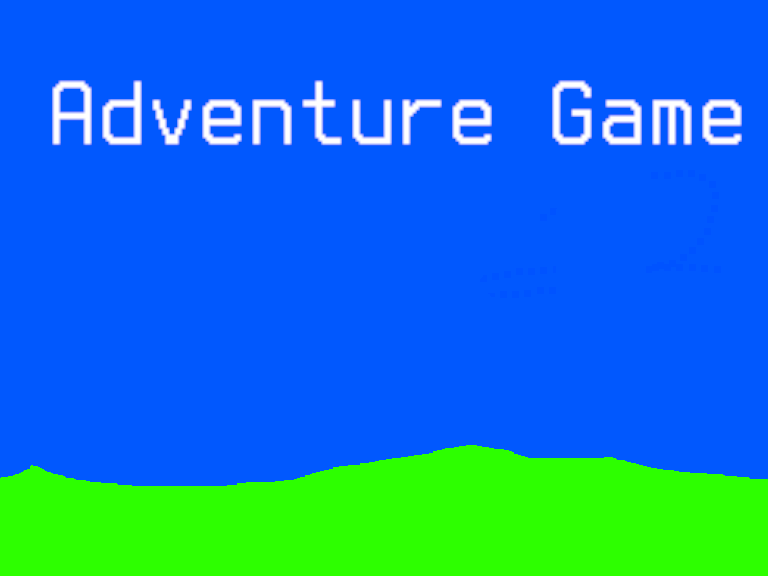
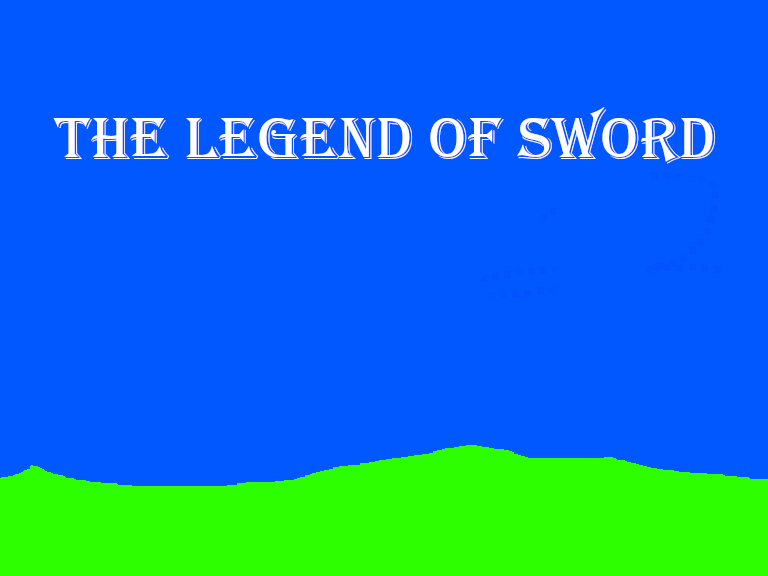
Codice aggiornato

Changed region(s): [[0.0625, 0.125, 0.9688, 0.2812]]

diff --git a/src/main/java/com/labollo/entity/Player.java b/src/main/java/com/labollo/entity/Player.java
@@ -2,20 +2,21 @@ package com.labollo.entity;
 
 import com.labollo.main.GamePanel;
 import com.labollo.main.KeyHandler;
-import com.labollo.object.OBJ_potion00;
-import com.labollo.object.OBJ_potion01;
-
 import javax.imageio.ImageIO;
-import java.awt.*;
+import java.awt.Rectangle;
+import java.awt.Graphics;
+import java.awt.Image;
 import java.awt.image.BufferedImage;
 import java.io.IOException;
 import java.util.Objects;
 import java.util.Random;
 
 public class Player extends Entity {
+    // Properties of com.labollo package
     GamePanel gp;
     KeyHandler keyH;
 
+    // Properties of this class
     public final int screenX;
     public final int screenY;
     public int hasKey = 0;
@@ -195,63 +196,22 @@ public class Player extends Entity {
                             this.gp.obj[5].worldY = closedChestY;
 
                             if (num == 0) {
-                                    this.gp.obj[6] = new OBJ_potion00();
                                     this.gp.obj[6].worldX = closedChestX;
-                                    this.gp.obj[6].worldY = closedChestY;
-                                    System.out.println(this.gp.obj[6].worldX);
-                                    System.out.println(this.gp.obj[6].worldY);
+                                    this.gp.obj[6].worldY = closedChestY + 2 * gp.tileSize;
+                                    System.out.println("P1");
+                                    System.out.println("X: "+this.gp.obj[6].worldX);
+                                    System.out.println("Y: "+this.gp.obj[6].worldY);
                             } else {
-                                    this.gp.obj[7] = new OBJ_potion01();
                                     this.gp.obj[7].worldX = closedChestX;
-                                    this.gp.obj[7].worldY = closedChestY;
-                                    System.out.println(this.gp.obj[7].worldX);
-                                    System.out.println(this.gp.obj[7].worldY);
+                                    this.gp.obj[7].worldY = closedChestY + 2 * gp.tileSize;
+                                    System.out.println("P2");
+                                    System.out.println("X: "+this.gp.obj[7].worldX);
+                                    System.out.println("Y: "+this.gp.obj[7].worldY);
                             }
                             this.hasKey--;
                         }
                     }
-                }/*
-                case "casketClosed00" -> {
-                    if (keyH.cPressed) {
-                        if (this.hasKey > 0) {
-                            Random rand = new Random();
-                            int num = Math.abs(rand.nextInt(2));
-
-                            // Ottieni le coordinate dello scrigno chiuso
-                            int closedChestX = this.gp.obj[index].worldX;
-                            int closedChestY = this.gp.obj[index].worldY;
-
-                            this.gp.obj[index] = null;
-
-                            // Assicurati che l'oggetto a cui stai cercando di accedere non sia null
-                            if (this.gp.obj[5] != null) {
-                                // Imposta le coordinate dello scrigno aperto
-                                this.gp.obj[5].worldX = closedChestX;
-                                this.gp.obj[5].worldY = closedChestY;
-                            }
-
-                            if (num == 0) {
-                                if (this.gp.obj[6] == null) {
-                                    this.gp.obj[6] = new OBJ_potion00();
-                                    this.gp.obj[6].worldX = closedChestX;
-                                    this.gp.obj[6].worldY = closedChestY + gp.tileSize * 2;
-                                } else
-                                    System.out.println("a");
-                            } else {
-                                if (this.gp.obj[7] == null) {
-                                    this.gp.obj[7] = new OBJ_potion01();
-                                    this.gp.obj[7].worldX = closedChestX;
-                                    this.gp.obj[7].worldY = closedChestY + gp.tileSize * 2;
-                                } else
-                                    System.out.println("b");
-                            }
-                            this.hasKey--;
-                        } else {
-                            System.out.println("You don't have the key!!!");
-                        }
-                    }
-                }*/
-
+                }
             }
         }
     }

diff --git a/src/main/java/com/labollo/main/GamePanel.java b/src/main/java/com/labollo/main/GamePanel.java
@@ -12,6 +12,7 @@ import java.awt.Toolkit;
 
 public class GamePanel extends JPanel implements Runnable {
 
+    // Properties of this class
     // Screen settings
     public final int originalTileSize = 16; // 16x16 tile
     public final int scale = 3; // to resize the tiles
@@ -22,23 +23,26 @@ public class GamePanel extends JPanel implements Runnable {
     public final int screenWidth = tileSize * maxScreenCol; // 768 pixels
     public final int screenHeight = tileSize * maxScreenRow; // 576 pixels
 
+    // World settings
+    public final int maxWorldCol = 80; // Columns number of the map: map02.tmx
+    public final int maxWorldRow = 80; // Rows number of the map: map02.tmx
+    public final int worldWidth = tileSize * maxWorldCol; // Width expressed in pixels (3840px)
+    public final int worldHeight = tileSize * maxWorldRow; // Width expressed in pixels (3840px)
+
+    // FPS
+    public int FPS = 60; // The startGameThread method will be called 60 times per second
+
+    // Properties of JDK
     public Thread gameThread; // To create an object of type Thread
-    public KeyHandler keyH = new KeyHandler(); // To create an object of type KeyHandler
+
+    // Properties of com.labollo package
+    public KeyHandler keyH = new KeyHandler();
     public CollisionChecker cChecker = new CollisionChecker(this);
     public Player player = new Player(this, keyH);
     public TileManager tileM = new TileManager(this);
     public SuperObject[] obj = new SuperObject[100];
     public AssetSetter aSetter = new AssetSetter(this);
-    public  UI ui = new UI(this);
-
-    // World settings
-    public final int maxWorldCol = 80;
-    public final int maxWorldRow = 80;
-    public final int worldWidth = tileSize * maxWorldCol;
-    public final int worldHeight = tileSize * maxWorldRow;
-
-    // FPS
-    public int FPS = 60;
+    public UI ui = new UI(this);
 
     // GamePanel constructor
     public GamePanel() {
@@ -100,8 +104,8 @@ public class GamePanel extends JPanel implements Runnable {
 
         tileM.paint(g2);
 
-        for(int i = 0; i < obj.length; i++) {
-            if(this.obj[i] != null) {
+        for (int i = 0; i < obj.length; i++) {
+            if (this.obj[i] != null) {
                 this.obj[i].draw(g2, this);
             }
         }

diff --git a/src/main/java/com/labollo/main/KeyHandler.java b/src/main/java/com/labollo/main/KeyHandler.java
@@ -9,7 +9,6 @@ public class KeyHandler implements KeyListener {
 
     @Override
     public void keyTyped(KeyEvent e) {
-
     }
 
     @Override
@@ -17,48 +16,37 @@ public class KeyHandler implements KeyListener {
         int code = e.getKeyCode();
 
 
-        if(code == KeyEvent.VK_W || code == KeyEvent.VK_UP) {
+        if(code == KeyEvent.VK_W || code == KeyEvent.VK_UP)
             upPressed = true;
-        }
-        if(code == KeyEvent.VK_S || code == KeyEvent.VK_DOWN) {
+        if(code == KeyEvent.VK_S || code == KeyEvent.VK_DOWN)
             downPressed = true;
-        }
-        if(code == KeyEvent.VK_A || code == KeyEvent.VK_LEFT) {
+        if(code == KeyEvent.VK_A || code == KeyEvent.VK_LEFT)
             leftPressed = true;
-        }
-        if(code == KeyEvent.VK_D || code == KeyEvent.VK_RIGHT) {
+        if(code == KeyEvent.VK_D || code == KeyEvent.VK_RIGHT)
             rightPressed = true;
-        }
-        if(code == KeyEvent.VK_SHIFT) {
+
+        if(code == KeyEvent.VK_SHIFT)
             shiftPressed = true;
-        }
-        if(code == KeyEvent.VK_C) {
+        if(code == KeyEvent.VK_C)
             cPressed = true;
-        }
     }
 
     @Override
     public void keyReleased(KeyEvent e) {
         int code = e.getKeyCode();
 
-        if(code == KeyEvent.VK_W || code == KeyEvent.VK_UP) {
+        if(code == KeyEvent.VK_W || code == KeyEvent.VK_UP)
             upPressed = false;
-        }
-        if(code == KeyEvent.VK_S || code == KeyEvent.VK_DOWN) {
+        if(code == KeyEvent.VK_S || code == KeyEvent.VK_DOWN)
             downPressed = false;
-        }
-        if(code == KeyEvent.VK_A || code == KeyEvent.VK_LEFT) {
+        if(code == KeyEvent.VK_A || code == KeyEvent.VK_LEFT)
             leftPressed = false;
-        }
-        if(code == KeyEvent.VK_D || code == KeyEvent.VK_RIGHT) {
+        if(code == KeyEvent.VK_D || code == KeyEvent.VK_RIGHT)
             rightPressed = false;
-        }
-        if(code == KeyEvent.VK_SHIFT) {
-            shiftPressed = false;
-        }
-        if(code == KeyEvent.VK_C) {
-            cPressed = false;
-        }
-    }
 
+        if(code == KeyEvent.VK_SHIFT)
+            shiftPressed = false;
+        if(code == KeyEvent.VK_C)
+            cPressed = false;
+    }
 }

diff --git a/src/main/java/com/labollo/main/AdventureGame.java b/src/main/java/com/labollo/main/AdventureGame.java
@@ -1,9 +1,14 @@
 package com.labollo.main;
 
-import javax.swing.*;
-import java.awt.*;
+import javax.swing.SwingUtilities;
+import javax.swing.JFrame;
+import java.awt.CardLayout;
 
 public class AdventureGame {
+
+    // Properties of this class
+    public static GamePanel gamePanel = new GamePanel(); // Creates an object of type GamePanel named "gamePanel"
+    public static MenuPanel menuPanel = new MenuPanel(gamePanel); // Creates an object of type MenuPanel named "menuPanel"
 
     public static void main(String[] args) {
 
@@ -16,10 +21,6 @@ public class AdventureGame {
             window.setDefaultCloseOperation(JFrame.EXIT_ON_CLOSE); // Closes the window when the "EXIT" button is pressed
             window.setResizable(false); // Disables window resizing to maintain a fixed layout
             window.setTitle("The legend of sword "); // Sets the title of the window
-
-            // Creating the game/menu panel
-            GamePanel gamePanel = new GamePanel(); // Creates an object of type GamePanel named "gamePanel"
-            MenuPanel menuPanel = new MenuPanel(gamePanel);
 
             // Configuring the window layout using a CardLayout
             window.setLayout(new CardLayout()); // Sets a CardLayout as the layout manager to handle panels in the window

diff --git a/src/main/java/com/labollo/main/MenuPanel.java b/src/main/java/com/labollo/main/MenuPanel.java
@@ -1,8 +1,10 @@
 package com.labollo.main;
 
-import javax.swing.*;
-import javax.swing.border.Border;
-import java.awt.*;
+import javax.swing.JPanel;
+import javax.swing.ImageIcon;
+import javax.swing.JLabel;
+import javax.swing.JButton;
+import java.awt.Color;
 import java.awt.event.ActionEvent;
 import java.awt.event.ActionListener;
 import java.awt.Font;
@@ -43,8 +45,8 @@ public class MenuPanel extends JPanel {
         newGame.setFocusPainted(false);
         newGame.setContentAreaFilled(true);
 
-        int buttonWidth = 250;
-        int buttonHeight = 100;
+        int buttonWidth = 200;
+        int buttonHeight = 60;
         int buttonX = (gamePanel.screenWidth - buttonWidth) / 2;
         int buttonY = (gamePanel.screenHeight - buttonHeight) / 2;
         newGame.setBounds(buttonX, buttonY, buttonWidth, buttonHeight);

diff --git a/src/main/java/com/labollo/main/UI.java b/src/main/java/com/labollo/main/UI.java
@@ -2,18 +2,25 @@ package com.labollo.main;
 
 import com.labollo.object.OBJ_key00;
 
-import java.awt.*;
+import java.awt.Color;
+import java.awt.Font;
+import java.awt.Graphics2D;
 import java.awt.image.BufferedImage;
 
 public class UI {
+
+    // Properties of com.labollo package
+    OBJ_key00 key;
     GamePanel gp;
+
+    // Properties of JDK
     Font arial_40;
     BufferedImage keyImage;
 
     public UI(GamePanel gp) {
         this.gp = gp;
         this.arial_40 = new Font("Arial", Font.ITALIC, 40);
-        OBJ_key00 key = new OBJ_key00();
+        this.key = new OBJ_key00();
         this.keyImage = key.image;
     }
 

diff --git a/src/main/java/com/labollo/main/AssetSetter.java b/src/main/java/com/labollo/main/AssetSetter.java
@@ -3,6 +3,7 @@ package com.labollo.main;
 import com.labollo.object.*;
 
 public class AssetSetter {
+    // Properties of com.labollo package
     GamePanel gp;
 
     public AssetSetter(GamePanel gp) {
@@ -35,8 +36,8 @@ public class AssetSetter {
         gp.obj[3].worldY = 19 * gp.tileSize;
 
         gp.obj[4] = new OBJ_heart00();
-        gp.obj[5] = new OBJ_casketOpened00();
 
+        gp.obj[5] = new OBJ_casketOpened00();
         gp.obj[6] = new OBJ_potion00();
         gp.obj[7] = new OBJ_potion01();
     }

diff --git a/src/main/java/com/labollo/entity/Entity.java b/src/main/java/com/labollo/entity/Entity.java
@@ -1,9 +1,10 @@
 package com.labollo.entity;
 
-import java.awt.*;
+import java.awt.Rectangle;
 import java.awt.image.BufferedImage;
 
 public class Entity {
+    // Properties of this class
     public int worldX, worldY;
     public int speed;
 

diff --git a/src/main/java/com/labollo/tile/TileManager.java b/src/main/java/com/labollo/tile/TileManager.java
@@ -3,7 +3,7 @@ package com.labollo.tile;
 import com.labollo.main.GamePanel;
 
 import javax.imageio.ImageIO;
-import java.awt.*;
+import java.awt.Graphics2D;
 import java.io.IOException;
 import java.io.InputStream;
 import java.util.Objects;

diff --git a/src/main/java/com/labollo/object/SuperObject.java b/src/main/java/com/labollo/object/SuperObject.java
@@ -2,7 +2,8 @@ package com.labollo.object;
 
 import com.labollo.main.GamePanel;
 
-import java.awt.*;
+import java.awt.Rectangle;
+import java.awt.Graphics2D;
 import java.awt.image.BufferedImage;
 
 public class SuperObject {

diff --git a/src/main/java/com/labollo/main/CollisionChecker.java b/src/main/java/com/labollo/main/CollisionChecker.java
@@ -5,6 +5,7 @@ import com.labollo.entity.Entity;
 import java.util.Objects;
 
 public class CollisionChecker {
+    // Properties of com.labollo package
     GamePanel gp;
 
     public CollisionChecker(GamePanel gp) {
